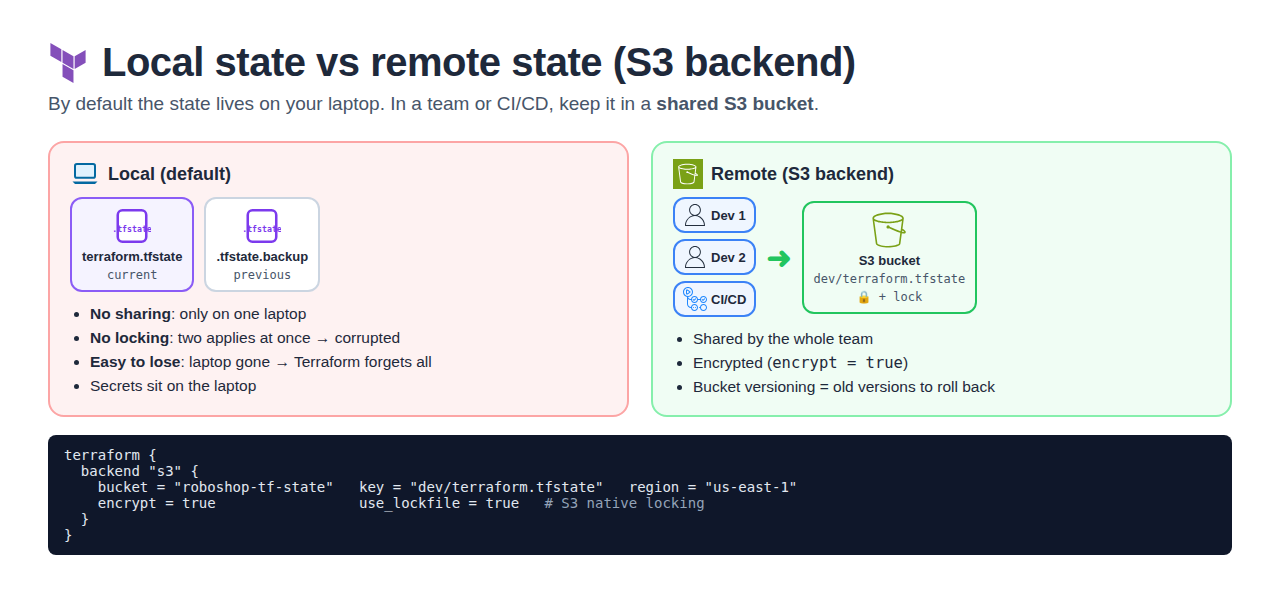
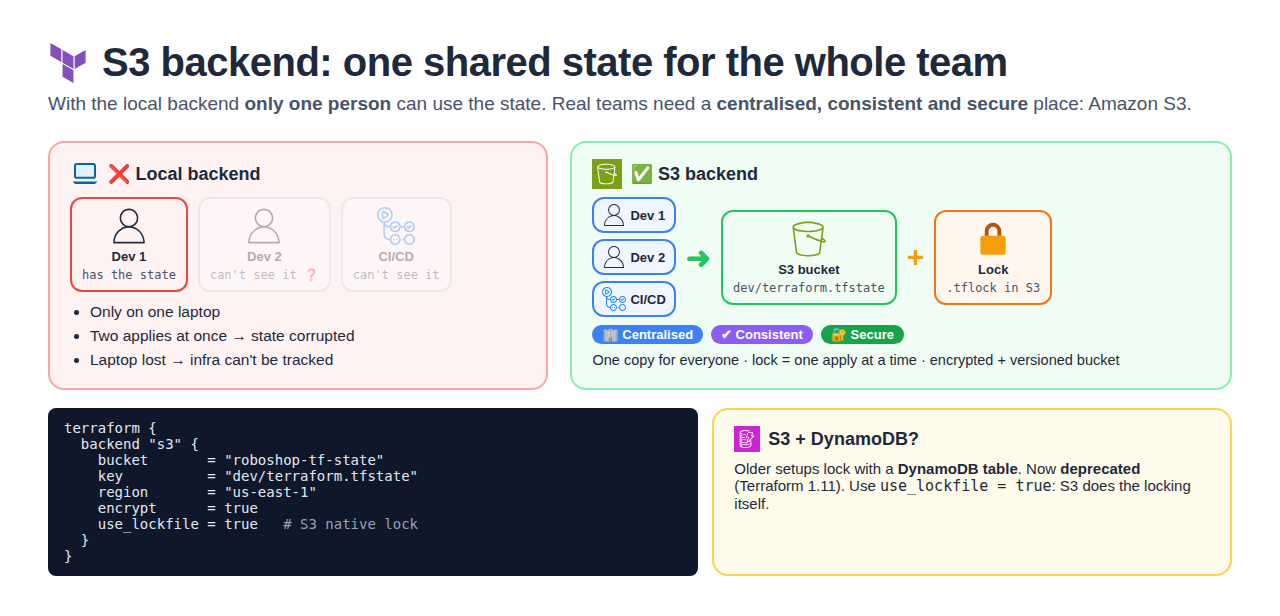
Terraform Day 2: backend, refresh, backup, S3 backend why, state mv/rm/pull with diagrams

Changed region(s): [[0.0312, 0.0605, 0.9688, 0.9378], [0.2812, 0.3328, 0.3438, 0.4538]]

diff --git a/terraform/day-2-state/README.md b/terraform/day-2-state/README.md
@@ -6,18 +6,23 @@
 
 1. [Quick Definitions](#quick-definitions)
 2. [What is the State File?](#what-is-the-state-file)
-3. [Local State (default)](#local-state-default)
-4. [Remote State (S3 Backend)](#remote-state-s3-backend)
-5. [State Locking](#state-locking)
-6. [Migrating State (init options)](#migrating-state-init-options)
-7. [State Commands](#state-commands)
-8. [Interview One-Liners](#interview-one-liners)
+3. [Backend, Refresh & Backup](#backend-refresh--backup)
+4. [Local State (default)](#local-state-default)
+5. [Remote State (S3 Backend)](#remote-state-s3-backend)
+6. [State Locking](#state-locking)
+7. [Migrating State (init options)](#migrating-state-init-options)
+8. [State Commands](#state-commands)
+9. [Interview One-Liners](#interview-one-liners)
 
 ## Quick Definitions
 
 **State file** (`terraform.tfstate`) = Terraform's **memory**: a JSON file that records what Terraform created.
 - Maps code to real resources, so Terraform knows what to create, change or destroy.
 - Stores secrets in plain text → **never commit to Git**.
+
+**Backend** = **where the state file is stored**. Default = **local** backend (project folder); team = **S3** backend.
+
+**Refresh** = `plan`, `apply` and `destroy` first **check the real infra** and update the state automatically.
 
 **Local state** = the **default** — the state file is stored on your machine.
 - `terraform.tfstate` = current, `terraform.tfstate.backup` = previous version.
@@ -35,6 +40,9 @@
 
 **terraform state list** = lists **all resources** in the state.
 **terraform state show** = shows **full details** of one resource (ID, IP, tags).
+**terraform state mv** = **renames** a resource in the state (after renaming the block in code) → no destroy/recreate.
+**terraform state rm** = **removes** a resource from the state → Terraform forgets it, but it **still exists in AWS**.
+**terraform state pull** = **downloads** the state from the backend (S3) and prints it.
 
 ## What is the State File?
 
@@ -58,9 +66,20 @@ aws_instance.web       id = i-0abc123, ip = ...           EC2 i-0abc123
 
 ⚠ State stores values in **plain text** (passwords, keys) → **never commit it to Git**.
 
-## Local State (default)
+## Backend, Refresh & Backup
 
-![Local vs remote state](./images/localremote.png)
+![State file basics](./images/statebasics.png)
+
+| Term                       | Meaning                                                                 |
+| -------------------------- | ----------------------------------------------------------------------- |
+| **Backend**                | **Where** the state file is stored. Default = **local** (project folder) |
+| **Format**                 | **JSON**                                                                |
+| **Refresh**                | `plan`, `apply`, `destroy` first check AWS and update the state automatically |
+| `terraform.tfstate.backup` | The **old** state, saved before every change. After a `destroy`, the deleted resource's info is still here |
+
+⚠ Keep the state **safe & secure**: if it's lost, Terraform **can't track** the infra any more.
+
+## Local State (default)
 
 By default Terraform stores state **on your machine**, in the project folder.
 
@@ -79,6 +98,20 @@ By default Terraform stores state **on your machine**, in the project folder.
 | Secrets on laptop   | Plain-text values sitting locally                         |
 
 ## Remote State (S3 Backend)
+
+![S3 backend](./images/localremote.png)
+
+**Why:** with the local backend **only one person** can use the state. Real teams need a
+**centralised, consistent and secure** place for it → **Amazon S3**.
+
+| Need            | How S3 backend gives it                         |
+| --------------- | ----------------------------------------------- |
+| **Centralised** | One copy for the whole team + CI/CD             |
+| **Consistent**  | Lock → only one apply at a time                 |
+| **Secure**      | `encrypt = true`, bucket versioning, IAM access |
+
+> Older setups used **S3 + DynamoDB** for locking. DynamoDB locking is now **deprecated** →
+> use `use_lockfile = true`.
 
 **Remote backend** = keep the state file in a **shared, central place** like an **S3 bucket**.
 
@@ -140,12 +173,24 @@ When you change the backend (local → S3 or S3 → local), run `terraform init`
 
 ## State Commands
 
-![state list and state show](./images/statecmds.png)
+![terraform state commands](./images/statecmds.png)
 
-| Command                                  | What it does                                   |
-| ---------------------------------------- | ---------------------------------------------- |
-| `terraform state list`                   | Lists **all resources** in the state           |
-| `terraform state show <address>`         | Shows **full details** of one resource         |
+`terraform state` = commands for **advanced state management**. Never edit the JSON by hand: use
+these instead.
+
+| Command                                              | What it does                                              |
+| ---------------------------------------------------- | --------------------------------------------------------- |
+| `terraform state list`                               | Lists **all resources** in the state                      |
+| `terraform state show aws_subnet.two`                | Shows **full details** of one resource                    |
+| `terraform state mv aws_subnet.two aws_subnet.three` | **Renames** it in the state (after renaming the block in code) |
+| `terraform state rm aws_subnet.three`                | **Removes** it from the state; resource **stays in AWS**  |
+| `terraform state pull`                               | **Downloads** the state from the backend and prints it    |
+
+| Situation                                     | Without the command                    | With it                          |
+| --------------------------------------------- | -------------------------------------- | -------------------------------- |
+| Renamed `aws_subnet.two` → `three` in code    | Destroys "two", creates "three"        | `state mv` → same subnet, new name |
+| Want Terraform to stop managing a resource    | `destroy` would delete it              | `state rm` → kept in AWS, forgotten |
+| Need a copy of the remote state               | Download from S3 manually              | `state pull > backup.tfstate`    |
 
 ```bash
 $ terraform state list
@@ -164,4 +209,6 @@ $ terraform state show 'aws_instance.app["user"]'
 - **Why remote state?** Team sharing, locking, encryption, no single laptop holding it.
 - **Locking** = only one apply at a time; S3 native `use_lockfile` (new) — DynamoDB locking is **deprecated**.
 - **-migrate-state** copies state to the new backend; **-reconfigure** switches backend without copying.
+- **Backend** = where the state is stored; `plan` / `apply` / `destroy` refresh the state automatically.
+- **state mv** = rename in state (no recreate); **state rm** = forget a resource (stays in AWS); **state pull** = download remote state.
 - **Never** commit state to Git — it holds secrets in plain text.
